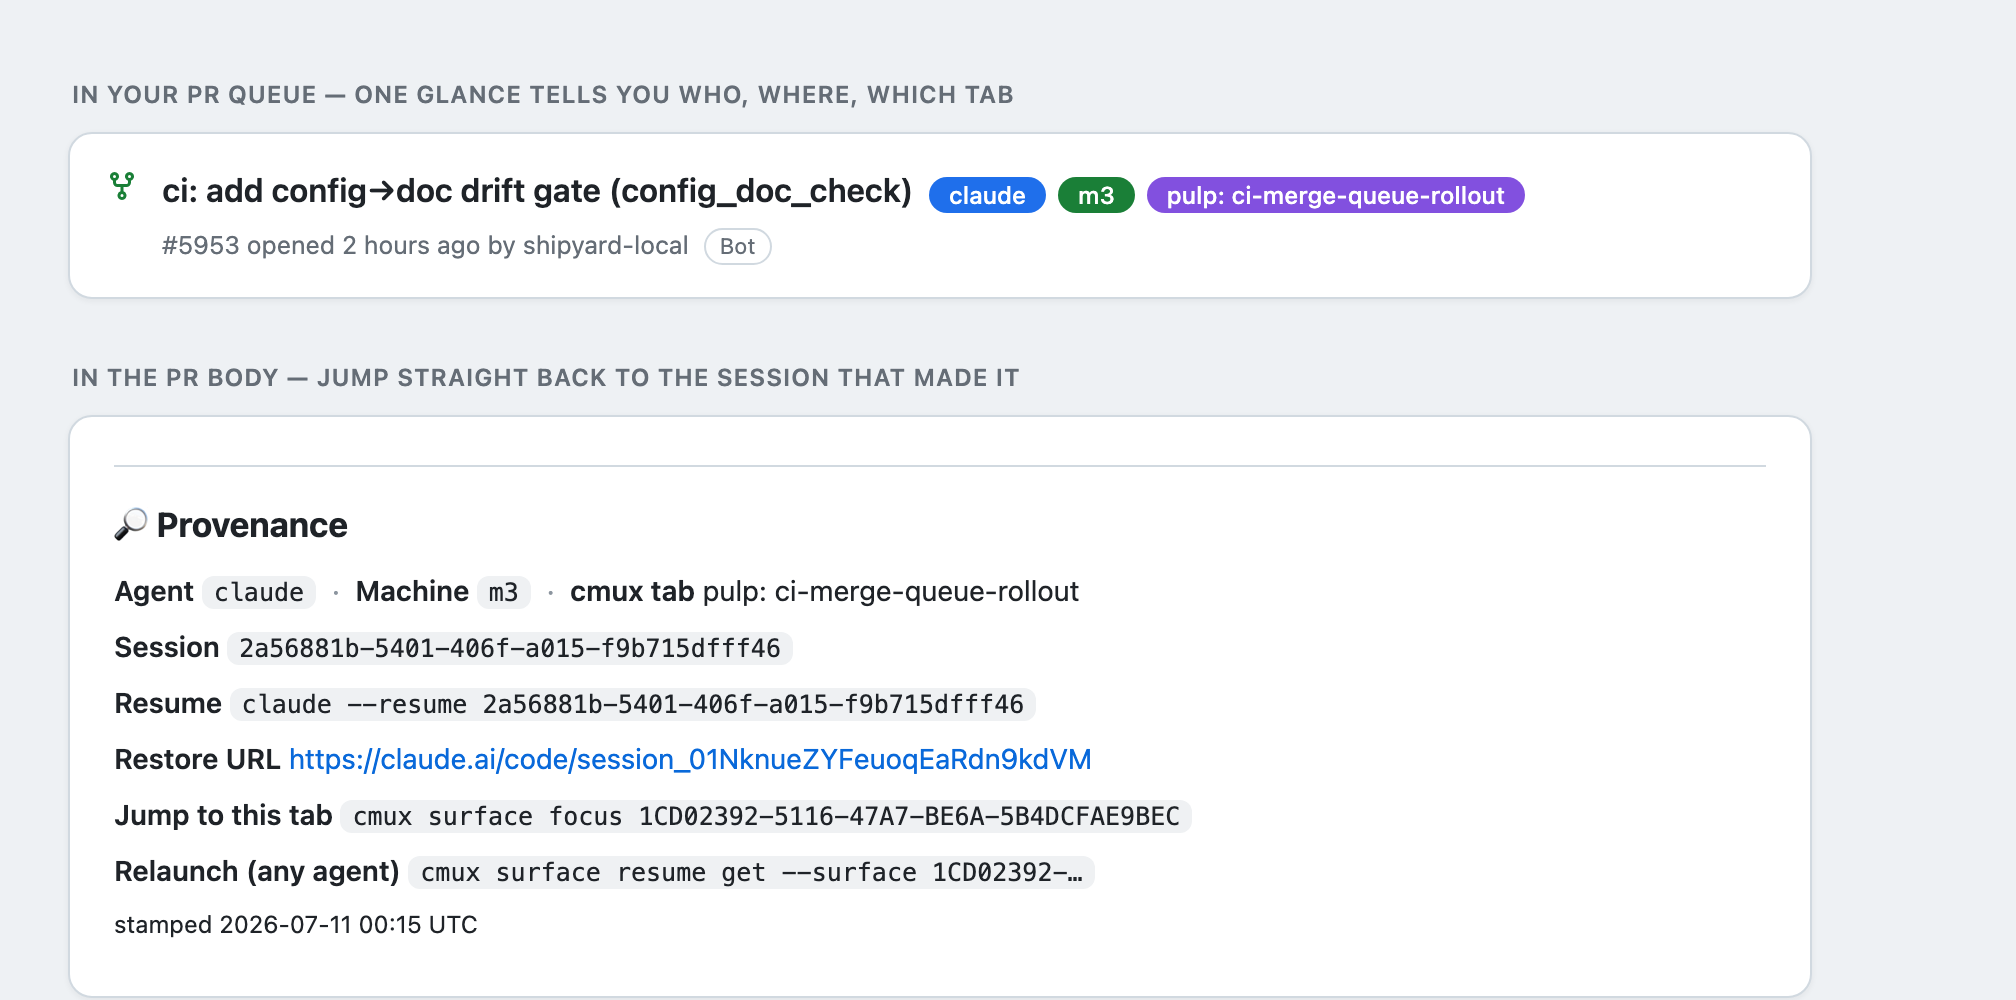
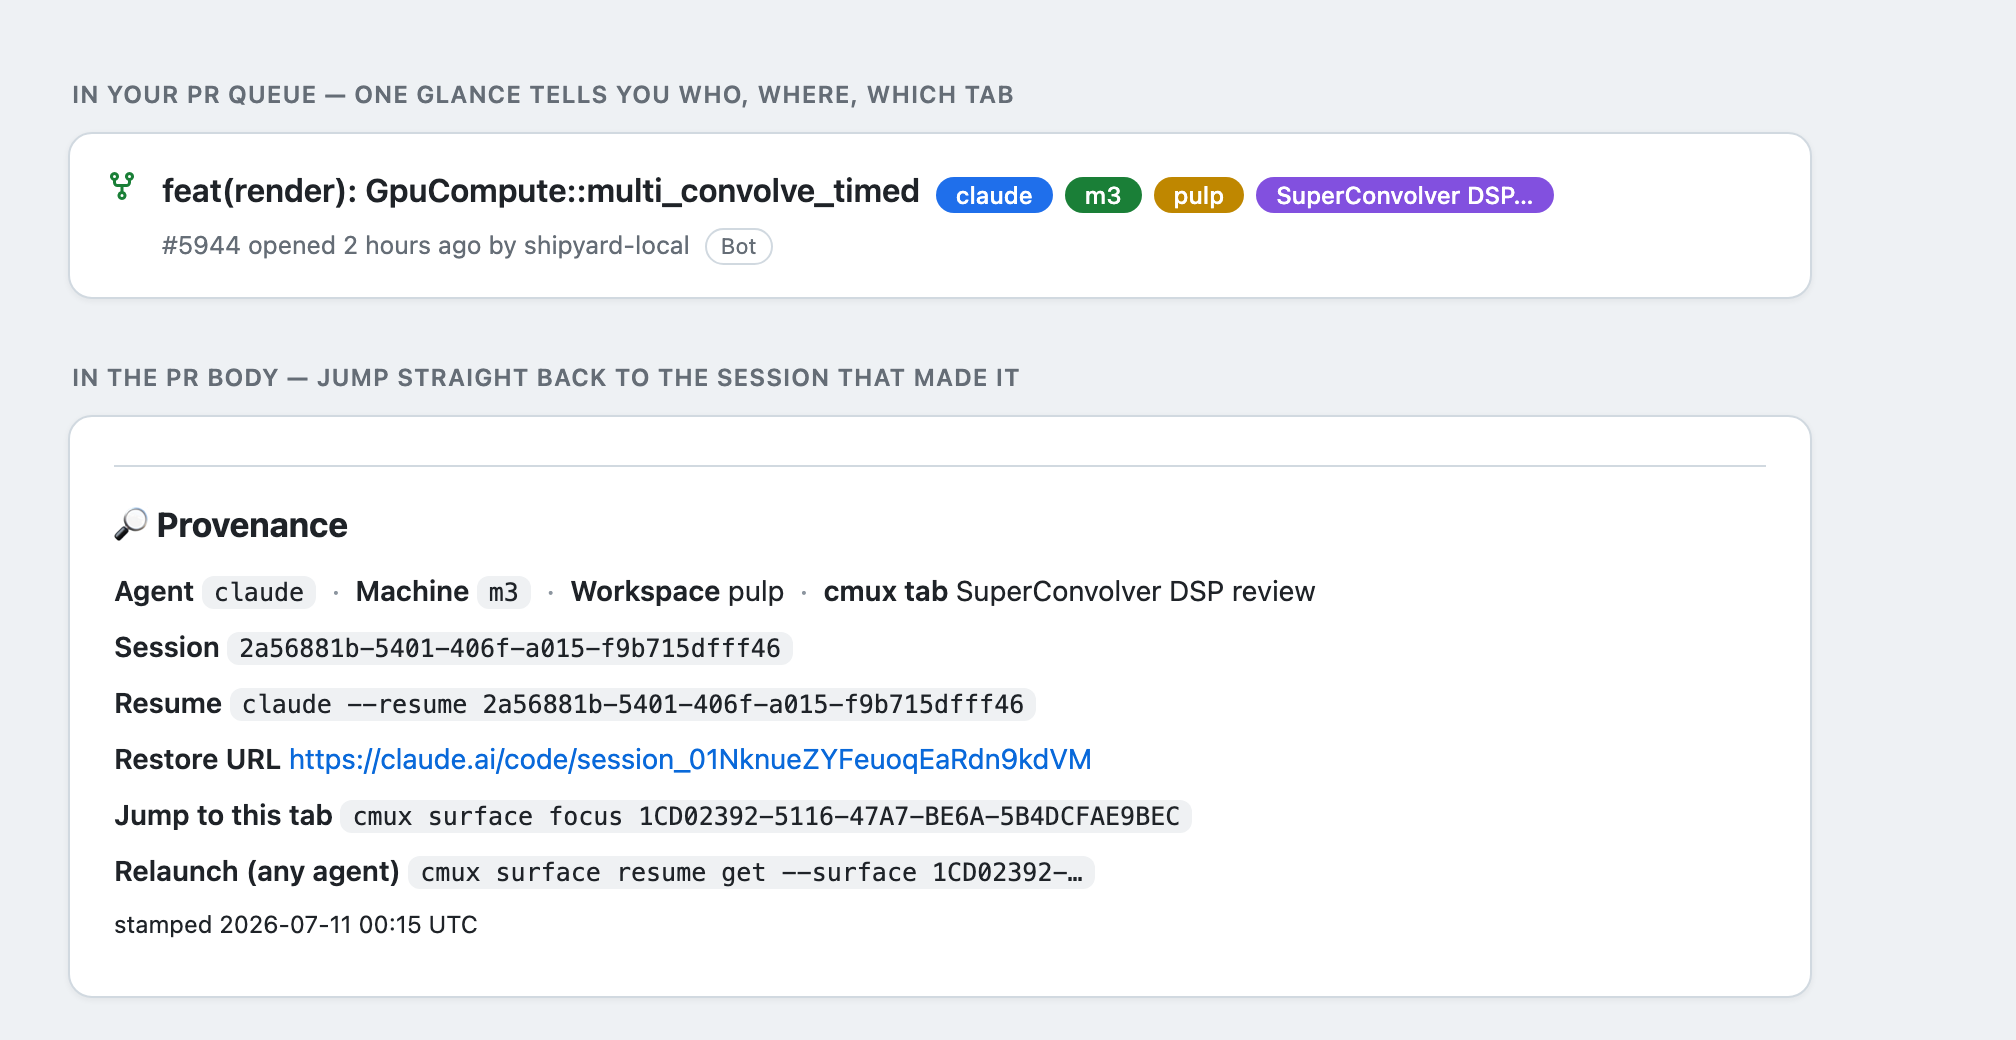
docs: refresh hero to the 4-label style (agent/host/workspace/tab)
Show all four color-coded queue labels with the tab clipped to label_maxlen
(…) and the full tab name preserved in the provenance footer, plus the
workspace line.

diff --git a/docs/hero.html b/docs/hero.html
@@ -39,8 +39,8 @@
         <div class="row">
           <svg class="oct" width="16" height="16" viewBox="0 0 16 16" fill="currentColor"><path d="M5 3.25a.75.75 0 1 1-1.5 0 .75.75 0 0 1 1.5 0Zm0 2.122a2.25 2.25 0 1 0-1.5 0v.878A2.25 2.25 0 0 0 5.75 8.5h1.5v2.128a2.251 2.251 0 1 0 1.5 0V8.5h1.5a2.25 2.25 0 0 0 2.25-2.25v-.878a2.25 2.25 0 1 0-1.5 0v.878a.75.75 0 0 1-.75.75h-4.5A.75.75 0 0 1 5 6.25v-.878Zm3.75 7.378a.75.75 0 1 1-1.5 0 .75.75 0 0 1 1.5 0Zm3-8.75a.75.75 0 1 1 0-1.5.75.75 0 0 1 0 1.5Z"></path></svg>
           <div class="main">
-            <span class="title">ci: add config→doc drift gate (config_doc_check)</span><span class="labels"><span class="lbl" style="background:#1f6feb">claude</span><span class="lbl" style="background:#1a7f37">m3</span><span class="lbl" style="background:#8250df">pulp: ci-merge-queue-rollout</span></span>
-            <div class="meta">#5953 opened 2 hours ago by shipyard-local <span class="bot">Bot</span></div>
+            <span class="title">feat(render): GpuCompute::multi_convolve_timed</span><span class="labels"><span class="lbl" style="background:#1f6feb">claude</span><span class="lbl" style="background:#1a7f37">m3</span><span class="lbl" style="background:#bf8700">pulp</span><span class="lbl" style="background:#8250df">SuperConvolver DSP…</span></span>
+            <div class="meta">#5944 opened 2 hours ago by shipyard-local <span class="bot">Bot</span></div>
           </div>
         </div>
       </div>
@@ -51,7 +51,7 @@
         <div class="body">
           <hr class="rule">
           <h3>🔎 Provenance</h3>
-          <p><b>Agent</b> <code>claude</code> <span class="dot">·</span> <b>Machine</b> <code>m3</code> <span class="dot">·</span> <b>cmux tab</b> pulp: ci-merge-queue-rollout</p>
+          <p><b>Agent</b> <code>claude</code> <span class="dot">·</span> <b>Machine</b> <code>m3</code> <span class="dot">·</span> <b>Workspace</b> pulp <span class="dot">·</span> <b>cmux tab</b> SuperConvolver DSP review</p>
           <p><b>Session</b> <code>2a56881b-5401-406f-a015-f9b715dfff46</code></p>
           <p><b>Resume</b> <code>claude --resume 2a56881b-5401-406f-a015-f9b715dfff46</code></p>
           <p><b>Restore URL</b> <a href="#">https://claude.ai/code/session_01NknueZYFeuoqEaRdn9kdVM</a></p>